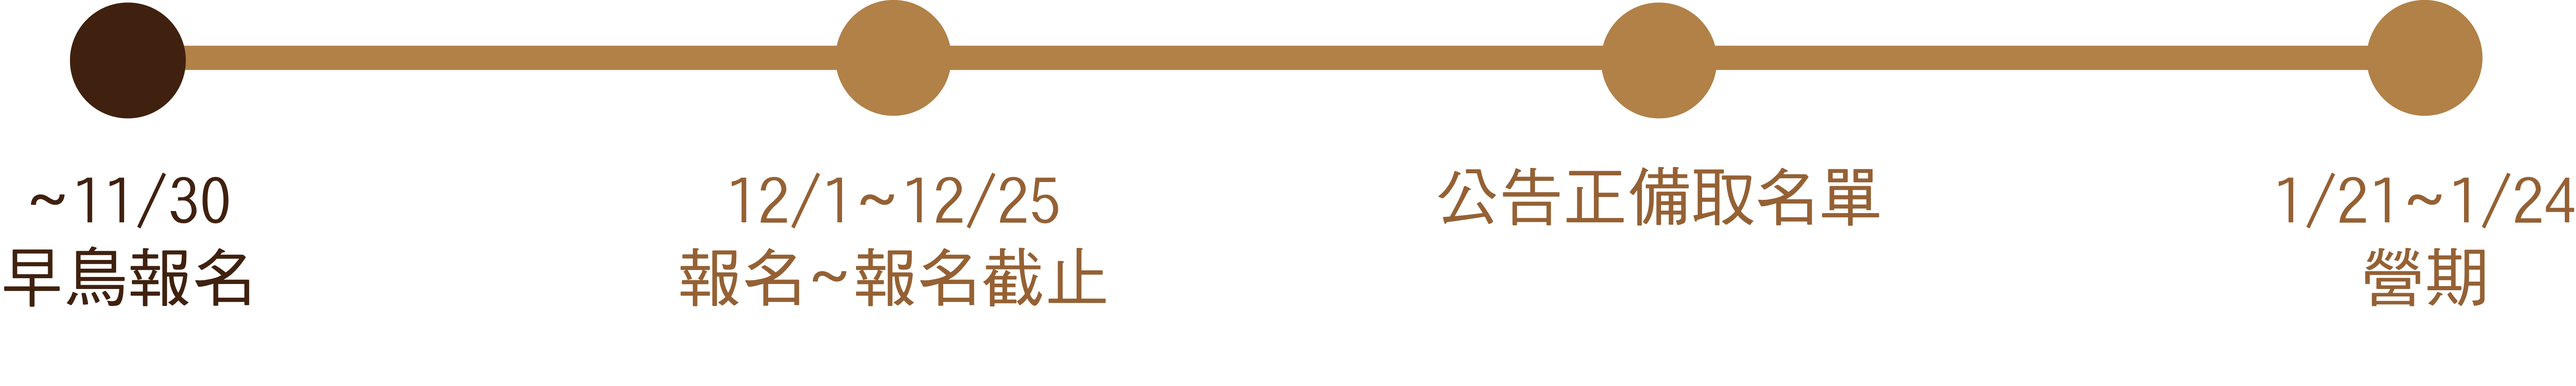
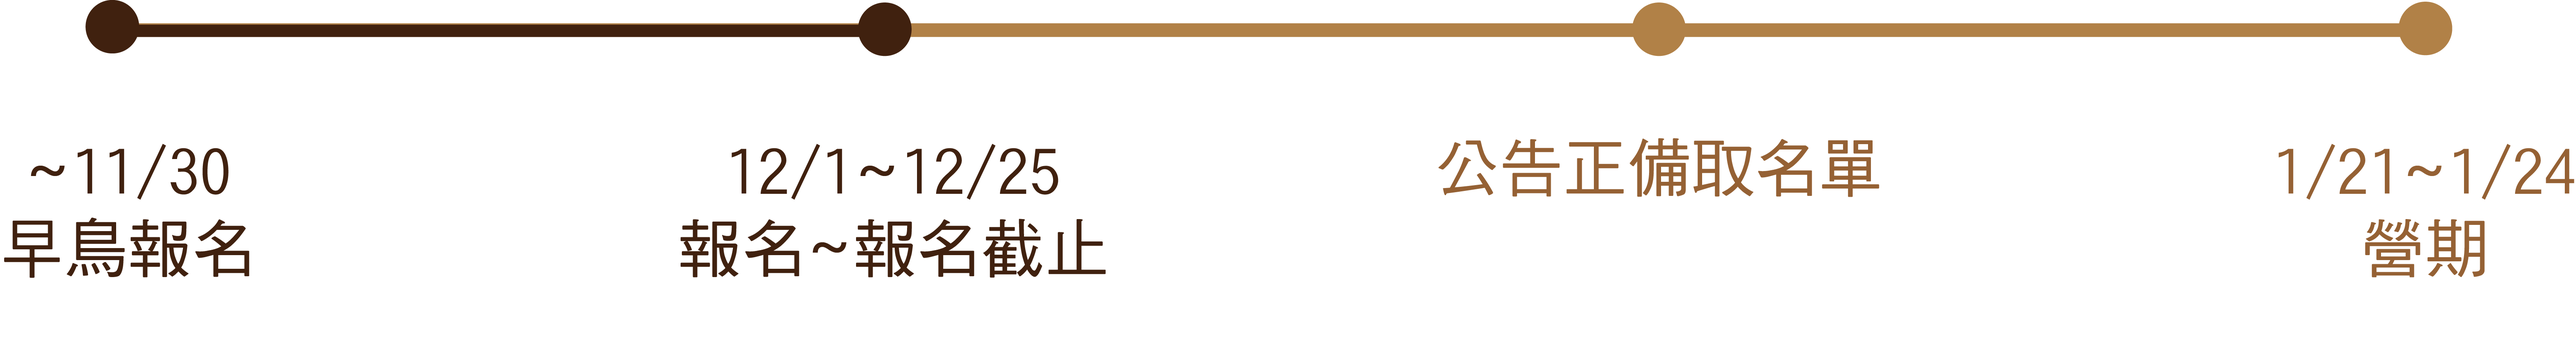
V2.4 Update TimeBar, fixed bugs
V2.4
Update TimeBar, fixed img bug in profile, fixed RWD bug in Field, fixed pin's pos bug.

diff --git a/PC/src/about_tcm.js b/PC/src/about_tcm.js
@@ -36,9 +36,9 @@ class about_tcm extends Component {
                 <h3 className="nope">A: 並沒有。<br/>憾!交管系竟不指揮交通?真相是...(往下滑小編告訴你)</h3>
               </div>
               <div name='know' id='know'>      
-                  <img src={know1} className='know_1'  alt='know_1'/>
+                  <img src={know1} className='know_tcm'  alt='know_1'/>
                   <img src={know_tcm} className='know_tcm'  alt='know_tcm'/>
-                  <img src={know_future} className='know_future'  alt='know_future'/> 
+                  <img src={know_future} className='know_tcm'  alt='know_future'/> 
                   <div className='know_field'>                  
                     <img src={know_field}   className="field_img" alt='know_field'/>
                      <Field className="Field" id="0" pic={passengers} alt="passengers"/>

diff --git a/PC/src/Profile.css b/PC/src/Profile.css
@@ -10,7 +10,7 @@
     top: 0%;
     left: 0%;
     width: 33vw;
-    height: 75vh;
+    height: 36vw;
     border-radius: 10px;
     background-color: white;
 }
@@ -24,14 +24,14 @@
 
 .name{
     position: absolute;
-    top:65%;
+    top:22vw;
     left: 7%;
     color: white;
     background-color: rgb(45, 45, 45);
-    height: 8vh;
+    height: 3.5vw;
     border-radius: 20px;
     width: 8vw;
-    font-size: 4vh;
+    font-size: 1.9vw;
     font-weight:lighter;
     font-family: "華康中圓體";
     line-height:8vh;
@@ -62,13 +62,13 @@
     top: 0%;
     right: 0%;
     width: 37vw;
-    height: 75vh;
+    height: 37.5vw;
     text-align: left;
 }
 
 span{
     font-family: "華康中黑體";
     color: rgb(45, 45, 45);
-    font-size: 3vh;
-    line-height:5vh;
+    font-size: 1.3vw;
+    line-height:2.5vw;
 }

diff --git a/mobile/src/sign.css b/mobile/src/sign.css
@@ -3,18 +3,19 @@ p{
 }
 
 .Pin{
-    height: 25px;
-    position: relative;
-    animation-name: jump;
-    left: -161px;
-    animation-duration: 1.5s;
-    animation-iteration-count: infinite;
-  }
+  width: 3vw;
+  position: absolute;
+  top:51.5vw;
+  left: 33.7vw;
+  animation-name: jump;
+  animation-duration: 1.5s;
+  animation-iteration-count: infinite;
+}
   
   .TimeBar{
     width: 90vw;
     position: relative;
-    top:200px;
+    top:50vw;
     left: 15px;
   }
   
@@ -49,14 +50,14 @@ p{
 
   @keyframes jump{
     0%{
-      top:125px;
+      top:51.5vw;
     }
   
     50%{
-      top:130px;
+      top:53vw;
     }
   
     100%{
-        top:125px;
+        top:51.5vw;
     }
   }

diff --git a/PC/src/Field.js b/PC/src/Field.js
@@ -25,10 +25,10 @@ class Field extends React.Component{
                 {"top": "35%"}
             ],
             topicStyle:[
-                {"right": "1.1vw","bottom": "-3vh"},
-                {"left": "1.1vw","bottom": "-3vh"},
-                {"right": "1.1vw","top": "-3vh"},
-                {"left": "1.1vw","top": "-3vh"}
+                {"right": "1.1vw","bottom": "-1.2vw"},
+                {"left": "1.1vw","bottom": "-1.2vw"},
+                {"right": "1.1vw","top": "-1.2vw"},
+                {"left": "1.1vw","top": "-1.2vw"}
             ],
             "type": this.props.id,
             content: this.conentTxt(this.props.id),

diff --git a/mobile/src/sign.js b/mobile/src/sign.js
@@ -2,6 +2,7 @@ import React, { Component } from 'react';
 import './sign.css';
 import TimeBar from './asset/TimeBar.png';
 import sign from './asset/sign.jpg';
+import pin from './asset/pin.png';
 
 class home extends Component {
   render() {
@@ -9,6 +10,7 @@ class home extends Component {
       <div className="App"> 
         <p>
             <img src={TimeBar} className='TimeBar' alt="TimeBar"/>
+            <img src={pin} className='Pin' alt="Pin"/>
         </p>
         <cover>
             <img src={sign} alt="sign"/>

diff --git a/PC/src/sign.css b/PC/src/sign.css
@@ -4,7 +4,7 @@
     width: 3vw;
     position: absolute;
     top:16%;
-    left: 16%;
+    left: 36.8vw;
     animation-name: jump;
     animation-duration: 1.5s;
     animation-iteration-count: infinite;
@@ -26,14 +26,13 @@
 
   .cover{
     position: relative;
-    top: -100px;
-    bottom: 0px;
-    max-width: 1920px;
+    top: -90%;
+    max-width: 100%;
   }
 
   .cover img{
     position: relative;
-    max-width: 100%;
+    width: 100%;
     left: 0%;
     height: auto;
   }

diff --git a/PC/src/about_tcm.css b/PC/src/about_tcm.css
@@ -38,7 +38,7 @@
    
 }
 #know{
-    max-width: 1520px;
+    max-width: 100%;
 }
 
 
@@ -50,7 +50,7 @@
 }
 
 .know_field{
-    max-width: 1920px;
+    max-width: 100%;
     position: relative;
 }
 
